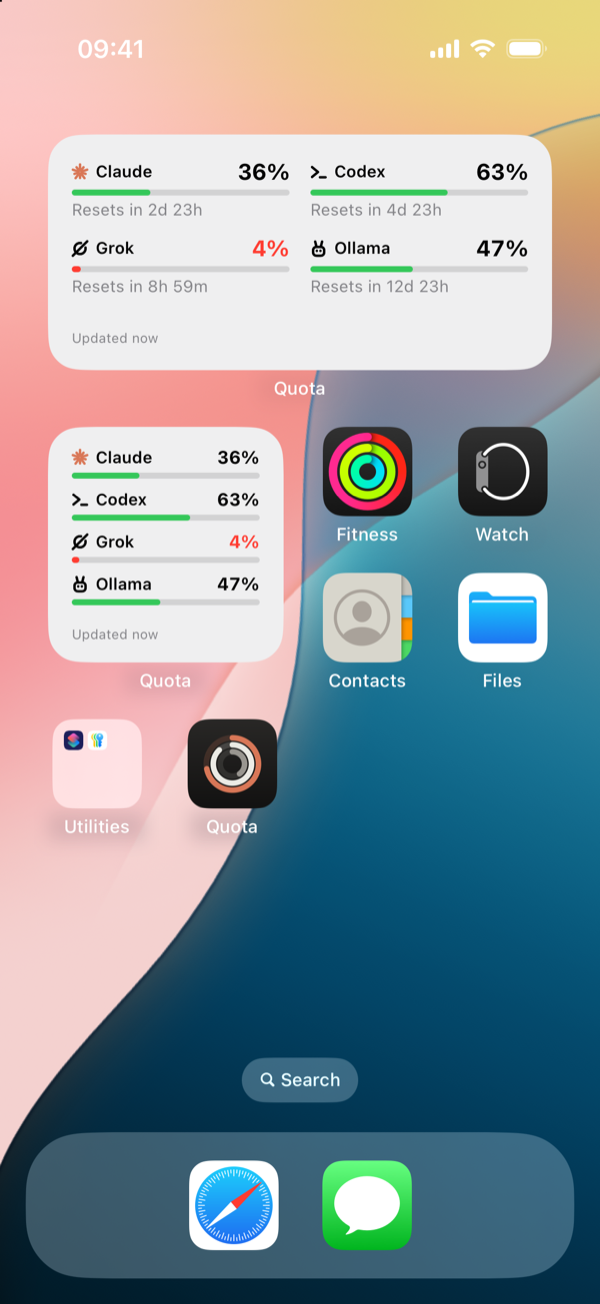
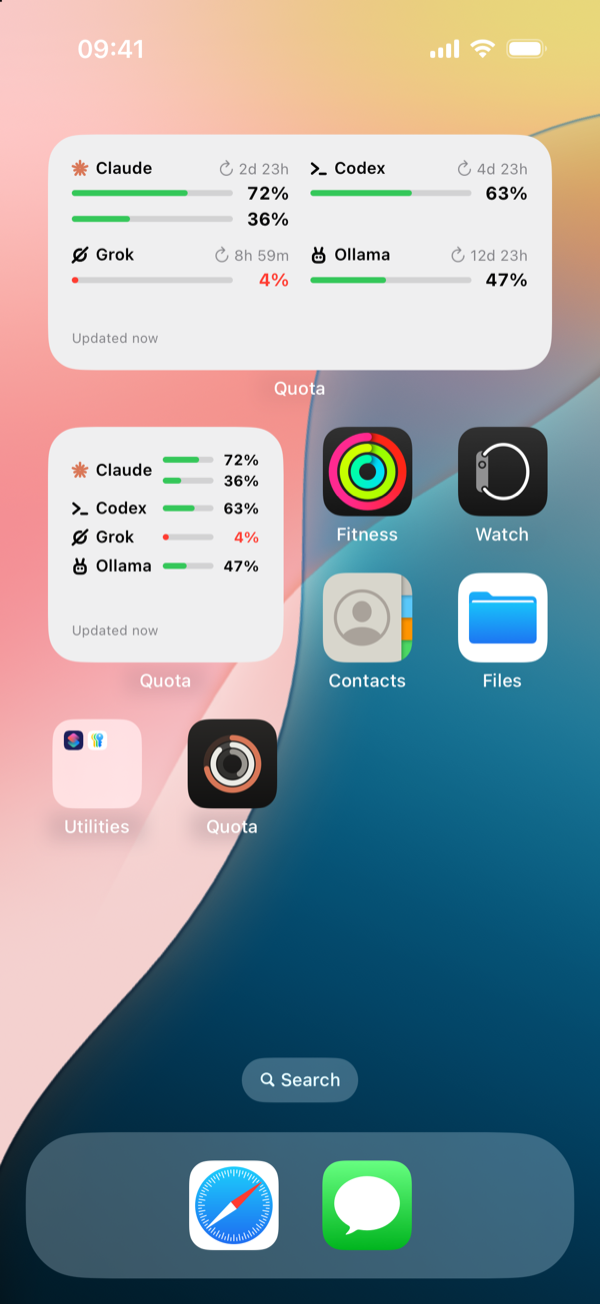
Stack the session and weekly bars in the widgets
Like the Mac menu bar, accounts that report a 5-hour session and a
weekly (or monthly) window now show two stacked bars in the small and
medium widgets, each with its own value and level color. The medium
tiles move the reset countdown next to the name, and the Lock Screen
rectangular and inline widgets show both values.

diff --git a/Widgets/QuotaWidgets.swift b/Widgets/QuotaWidgets.swift
@@ -92,16 +92,14 @@ struct UsageWidgetView: View {
 
     @ViewBuilder
     private func content(_ payload: UsagePayload) -> some View {
-        let rows = payload.accounts.compactMap { account in
-            account.headline(at: entry.date).map { Row(account: account, window: $0.window, remaining: $0.remaining) }
-        }
+        let rows = payload.accounts.compactMap { Row(account: $0, now: entry.date) }
         switch family {
         case .accessoryCircular:
             CircularView(row: rows.min { $0.remaining < $1.remaining }, mode: entry.displayMode)
         case .accessoryRectangular:
             RectangularView(rows: Array(rows.prefix(4)), mode: entry.displayMode)
         case .accessoryInline:
-            Text(rows.map { "\($0.account.provider.shortName) \(entry.displayMode.value(remaining: $0.remaining))%" }.joined(separator: " · "))
+            Text(rows.map { "\($0.account.provider.shortName) \($0.values(entry.displayMode))" }.joined(separator: " · "))
         case .systemMedium:
             MediumView(rows: Array(rows.prefix(4)), payload: payload, now: entry.date, mode: entry.displayMode)
         default:
@@ -122,13 +120,56 @@ struct UsageWidgetView: View {
     }
 }
 
-struct Row: Identifiable {
-    let account: AccountUsage
+struct Bar: Identifiable {
+    let id: Int
     let window: UsageWindow
     let remaining: Int
 
+    var level: UsageLevel { UsageLevel(remainingPercent: remaining) }
+}
+
+struct Row: Identifiable {
+    let account: AccountUsage
+    /// Session above weekly (or monthly) when the account reports both, as in the Mac menu bar.
+    let bars: [Bar]
+    /// The account-wide window closest to its limit.
+    let window: UsageWindow
+    let remaining: Int
+
+    init?(account: AccountUsage, now: Date) {
+        guard let headline = account.headline(at: now) else { return nil }
+        self.account = account
+        window = headline.window
+        remaining = headline.remaining
+        bars = account.barWindows(at: now).enumerated().map { Bar(id: $0.offset, window: $0.element, remaining: $0.element.remainingPercent(at: now)) }
+    }
+
     var id: UUID { account.id }
     var level: UsageLevel { UsageLevel(remainingPercent: remaining) }
+
+    func values(_ mode: DisplayMode) -> String {
+        bars.map { "\(mode.value(remaining: $0.remaining))%" }.joined(separator: "/")
+    }
+}
+
+/// One bar with its value at the end, colored by its own level.
+private struct BarLine: View {
+    let bar: Bar
+    let mode: DisplayMode
+    let valueSize: CGFloat
+    let valueWidth: CGFloat
+
+    var body: some View {
+        let value = mode.value(remaining: bar.remaining)
+        HStack(spacing: 4) {
+            UsageBar(fraction: Double(value) / 100, color: bar.level.color, height: 4)
+            Text(verbatim: "\(value)%")
+                .font(.system(size: valueSize, weight: .bold))
+                .monospacedDigit()
+                .foregroundStyle(bar.level == .normal ? Color.primary : bar.level.color)
+                .frame(width: valueWidth, alignment: .trailing)
+        }
+    }
 }
 
 private struct SmallView: View {
@@ -138,23 +179,19 @@ private struct SmallView: View {
     let mode: DisplayMode
 
     var body: some View {
-        VStack(alignment: .leading, spacing: 7) {
+        VStack(alignment: .leading, spacing: 6) {
             ForEach(rows) { row in
-                VStack(alignment: .leading, spacing: 3) {
-                    HStack(spacing: 5) {
-                        ProviderGlyph(provider: row.account.provider)
-                            .frame(width: 11, height: 11)
-                            .foregroundStyle(row.account.provider.accent)
-                        Text(row.account.provider.shortName)
-                            .font(.caption2.weight(.semibold))
-                            .lineLimit(1)
-                        Spacer(minLength: 2)
-                        Text(verbatim: "\(mode.value(remaining: row.remaining))%")
-                            .font(.caption.weight(.bold))
-                            .monospacedDigit()
-                            .foregroundStyle(row.level == .normal ? Color.primary : row.level.color)
+                HStack(spacing: 5) {
+                    ProviderGlyph(provider: row.account.provider)
+                        .frame(width: 11, height: 11)
+                        .foregroundStyle(row.account.provider.accent)
+                    Text(row.account.provider.shortName)
+                        .font(.caption2.weight(.semibold))
+                        .lineLimit(1)
+                        .frame(width: 40, alignment: .leading)
+                    VStack(spacing: 2) {
+                        ForEach(row.bars) { BarLine(bar: $0, mode: mode, valueSize: 10, valueWidth: 27) }
                     }
-                    UsageBar(fraction: Double(mode.value(remaining: row.remaining)) / 100, color: row.level.color, height: 4)
                 }
             }
             Spacer(minLength: 0)
@@ -173,7 +210,7 @@ private struct MediumView: View {
         VStack(alignment: .leading, spacing: 8) {
             Grid(horizontalSpacing: 14, verticalSpacing: 10) {
                 ForEach(Array(stride(from: 0, to: rows.count, by: 2)), id: \.self) { index in
-                    GridRow {
+                    GridRow(alignment: .top) {
                         tile(rows[index])
                         if index + 1 < rows.count {
                             tile(rows[index + 1])
@@ -198,23 +235,14 @@ private struct MediumView: View {
                     .font(.caption2.weight(.semibold))
                     .lineLimit(1)
                 Spacer(minLength: 2)
-                Text(verbatim: "\(mode.value(remaining: row.remaining))%")
-                    .font(.subheadline.weight(.bold))
-                    .monospacedDigit()
-                    .foregroundStyle(row.level == .normal ? Color.primary : row.level.color)
+                if let resetsAt = row.window.resetsAt, !row.window.hasReset(at: now) {
+                    Text("\(Image(systemName: "arrow.clockwise")) \(Formatting.countdown(to: resetsAt, from: now))")
+                        .font(.system(size: 10))
+                        .foregroundStyle(.secondary)
+                        .lineLimit(1)
+                }
             }
-            UsageBar(fraction: Double(mode.value(remaining: row.remaining)) / 100, color: row.level.color, height: 4)
-            if let resetsAt = row.window.resetsAt, !row.window.hasReset(at: now) {
-                Text("Resets in \(Formatting.countdown(to: resetsAt, from: now))")
-                    .font(.caption2)
-                    .foregroundStyle(.secondary)
-                    .lineLimit(1)
-            } else {
-                Text(row.window.label)
-                    .font(.caption2)
-                    .foregroundStyle(.secondary)
-                    .lineLimit(1)
-            }
+            ForEach(row.bars) { BarLine(bar: $0, mode: mode, valueSize: 12, valueWidth: 34) }
         }
     }
 }
@@ -263,7 +291,7 @@ private struct RectangularView: View {
     let mode: DisplayMode
 
     var body: some View {
-        Grid(alignment: .leading, horizontalSpacing: 10, verticalSpacing: 2) {
+        Grid(alignment: .leading, horizontalSpacing: 8, verticalSpacing: 2) {
             ForEach(Array(stride(from: 0, to: rows.count, by: 2)), id: \.self) { index in
                 GridRow {
                     cell(rows[index])
@@ -276,12 +304,14 @@ private struct RectangularView: View {
     }
 
     private func cell(_ row: Row) -> some View {
-        HStack(spacing: 4) {
+        HStack(spacing: 3) {
             ProviderGlyph(provider: row.account.provider)
-                .frame(width: 11, height: 11)
-            Text(verbatim: "\(mode.value(remaining: row.remaining))%")
-                .font(.system(size: 15, weight: .semibold))
+                .frame(width: 10, height: 10)
+            Text(verbatim: row.values(mode))
+                .font(.system(size: row.bars.count > 1 ? 12 : 15, weight: .semibold))
                 .monospacedDigit()
+                .minimumScaleFactor(0.8)
+                .lineLimit(1)
         }
     }
 }

diff --git a/Shared/Style.swift b/Shared/Style.swift
@@ -60,11 +60,20 @@ struct UsageBar: View {
 }
 
 extension AccountUsage {
-    /// The account-wide window the menu bar would show, with its remaining percent at `now`.
+    /// The account-wide window closest to its limit, with its remaining percent at `now`.
     func headline(at now: Date) -> (window: UsageWindow, remaining: Int)? {
-        let snapshot = ProviderSnapshot(provider: provider, plan: plan, account: email, windows: usageWindows, fetchedAt: fetchedAt ?? now)
-        guard let window = snapshot.tightestWindow(at: now) else { return nil }
+        guard let window = snapshot(at: now).tightestWindow(at: now) else { return nil }
         return (window, window.remainingPercent(at: now))
+    }
+
+    /// The bars the widgets draw, like the Mac menu bar: the 5-hour session above the weekly (or monthly)
+    /// window when the account reports both, otherwise the window closest to its limit.
+    func barWindows(at now: Date) -> [UsageWindow] {
+        snapshot(at: now).menuBarWindows(at: now)
+    }
+
+    private func snapshot(at now: Date) -> ProviderSnapshot {
+        ProviderSnapshot(provider: provider, plan: plan, account: email, windows: usageWindows, fetchedAt: fetchedAt ?? now)
     }
 }
 

diff --git a/DESIGN.md b/DESIGN.md
@@ -16,8 +16,9 @@ The iOS surfaces follow the macOS design system in `quota/DESIGN.md`: same level
 
 ## Widgets
 
-- **Small**: up to four rows: glyph (11 pt), short provider name (`.caption2` semibold), value (`.caption` bold), 4 pt bar; "Updated …" in 9 pt at the bottom, orange when older than 30 minutes.
-- **Medium**: 2 × 2 grid of the same tiles with the reset countdown (or the window label) under the bar.
-- **Lock Screen**: circular gauge of the account closest to its limit (glyph + value); rectangular 2 × 2 of glyph + value; inline "Claude 72% · Codex 63% · …".
-- Each row shows the account-wide window closest to its limit (`ProviderSnapshot.tightestWindow`); `Provider.shortName` keeps names short ("Ollama").
+- Bars follow the Mac menu bar (`ProviderSnapshot.menuBarWindows`): when an account reports a 5-hour session and a weekly (or monthly) window, it gets two stacked bars, session above, each with its own value and level color; otherwise one bar for the window closest to its limit.
+- **Small**: up to four rows: glyph (11 pt), short provider name (`.caption2` semibold, 40 pt column), then the stacked bars (4 pt) each followed by its value (10 pt bold); "Updated …" in 9 pt at the bottom, orange when older than 30 minutes.
+- **Medium**: 2 × 2 tiles: glyph + short name + `↻` countdown of the window closest to its limit (10 pt, secondary), then the stacked bars with 12 pt values.
+- **Lock Screen**: circular gauge of the account closest to its limit (glyph + value); rectangular 2 × 2 of glyph + values (`55%/85%` when stacked); inline "Claude 55%/85% · Codex 88% · …".
+- `Provider.shortName` keeps names short ("Ollama").
 - States: not paired ("Open Quota to pair"), unreachable with no cache ("Can't reach the Quota server.").

diff --git a/README.md b/README.md
@@ -14,7 +14,7 @@ The iOS companion of [Quota](https://github.com/turinglabsorg/quota), the macOS 
 Your phone has no CLIs to read limits from, so an always-on Mac does it: [`quota-server`](https://github.com/turinglabsorg/quota#iphone-app-and-widgets) reads the accounts linked on that Mac every 5 minutes and publishes them over HTTPS. The app and the widgets fetch those numbers with a device token. The phone never receives credentials for Claude, Codex, Grok or Ollama.
 
 - **App**: every account with its windows (5-hour session, weekly, per-model weekly, monthly), bars and reset countdowns. Pull to refresh.
-- **Widgets**: small and medium on the Home Screen; circular (the account closest to its limit), rectangular and inline on the Lock Screen. They refresh themselves every 15 minutes and keep showing the last numbers, with their age, when the server is unreachable.
+- **Widgets**: small and medium on the Home Screen; circular (the account closest to its limit), rectangular and inline on the Lock Screen. The 5-hour session and the weekly window appear as two stacked bars, like the Mac menu bar. They refresh themselves every 15 minutes and keep showing the last numbers, with their age, when the server is unreachable.
 - **Pairing**: run `quota-server pair` on the Mac and enter the single-use 8-digit code in the app. The token lives in the Keychain, shared with the widgets.
 - **Languages**: English and Italian.
 
